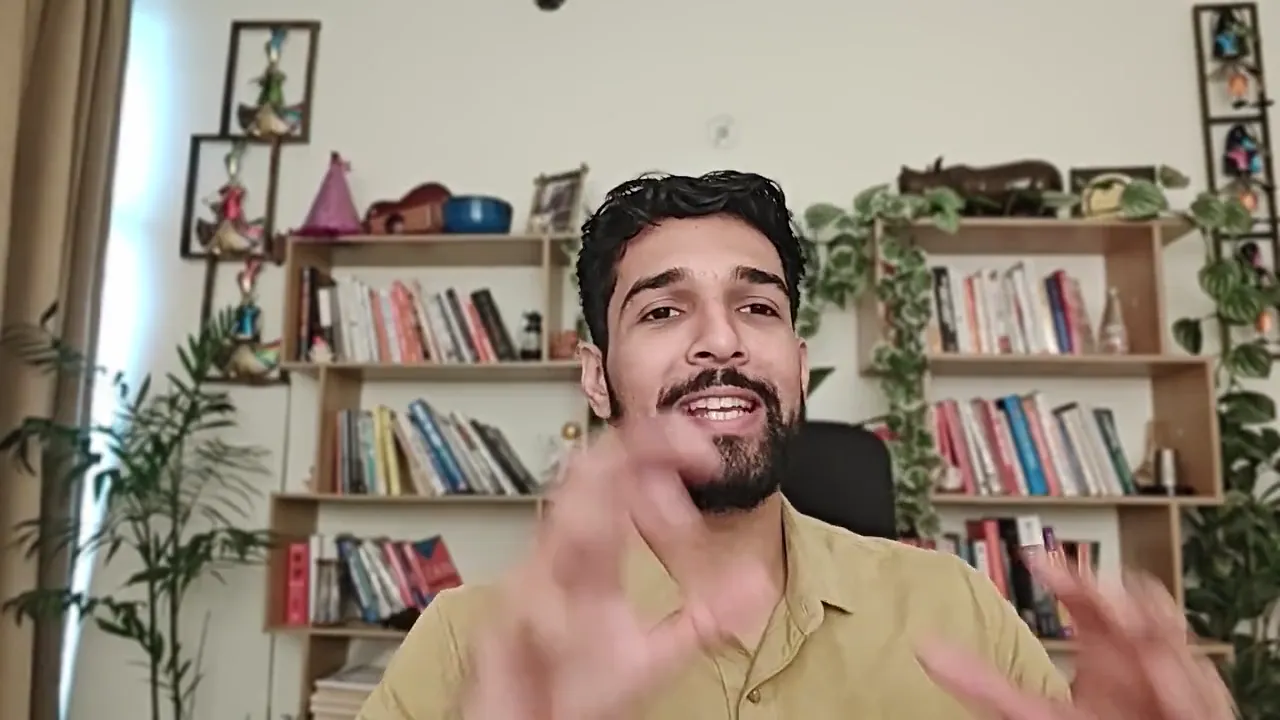
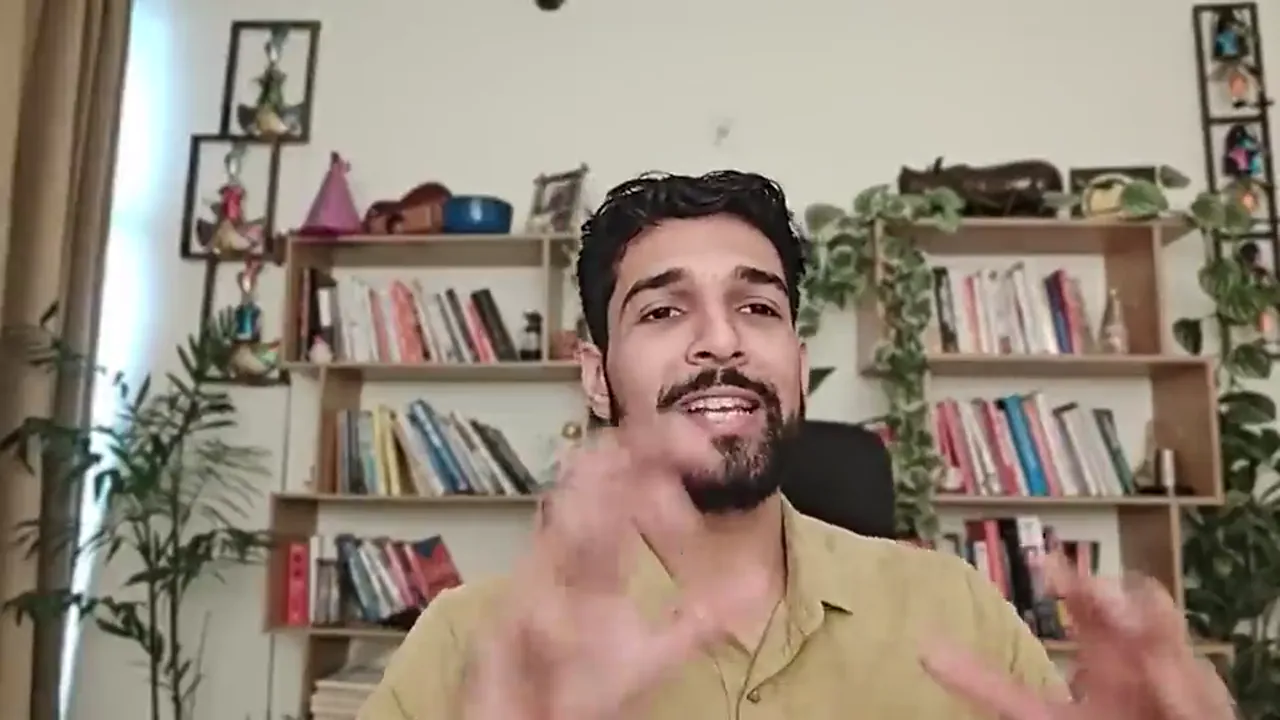
perf: compress course intro to 6.9MB; point testimonial paths at before-after

diff --git a/components/affiliate-lp/social-trust.tsx b/components/affiliate-lp/social-trust.tsx
@@ -165,7 +165,7 @@ export function SocialTrust() {
                 type: "video",
                 name: "Ayushi",
                 result: "Transformation Journey",
-                src: "/testimonials/ayushi.mp4",
+                src: "/before-after/ayushi.mp4",
               },
               {
                 type: "image",
@@ -177,7 +177,7 @@ export function SocialTrust() {
                 type: "video",
                 name: "Manav",
                 result: "Transformation Journey",
-                src: "/testimonials/manav.mp4",
+                src: "/before-after/manav.mp4",
               },
               {
                 type: "image",
@@ -189,7 +189,7 @@ export function SocialTrust() {
                 type: "video",
                 name: "Uday",
                 result: "Transformation Journey",
-                src: "/testimonials/uday.mp4",
+                src: "/before-after/uday.mp4",
               },
               {
                 type: "image",
@@ -201,25 +201,25 @@ export function SocialTrust() {
                 type: "video",
                 name: "Ananya",
                 result: "Transformation Journey",
-                src: "/testimonials/ananya.mp4",
+                src: "/before-after/ananya.mp4",
               },
               {
                 type: "video",
                 name: "Aditya",
                 result: "Transformation Journey",
-                src: "/testimonials/aditya.mp4",
+                src: "/before-after/aditya.mp4",
               },
               {
                 type: "video",
                 name: "Roshni",
                 result: "Transformation Journey",
-                src: "/testimonials/roshni.mp4",
+                src: "/before-after/roshni.mp4",
               },
               {
                 type: "video",
                 name: "Atreyee, 28",
                 result: "Transformation Journey",
-                src: "/testimonials/atreyee.mp4",
+                src: "/before-after/atreyee.mp4",
               },
             ].map((story, i) => (
               <div key={i} className={`break-inside-avoid rounded-2xl overflow-hidden relative shadow-lg group cursor-default bg-black mb-6 w-full ${story.type === 'video' ? 'aspect-[9/16]' : 'aspect-square'}`}>

diff --git a/content/campaign.ts b/content/campaign.ts
@@ -163,15 +163,15 @@ export const steps = [
 
 export const stories = [
   { type: "photo" as const, src: "/testimonials/pratima.webp", name: "Pratima, 37", result: "Transformation journey" },
-  { type: "video" as const, src: "/testimonials/ayushi.mp4", name: "Ayushi", result: "Transformation journey" },
+  { type: "video" as const, src: "/before-after/ayushi.mp4", name: "Ayushi", result: "Transformation journey" },
   { type: "photo" as const, src: "/testimonials/kanti.webp", name: "Kanti, 44", result: "Transformation journey" },
-  { type: "video" as const, src: "/testimonials/manav.mp4", name: "Manav", result: "Transformation journey" },
+  { type: "video" as const, src: "/before-after/manav.mp4", name: "Manav", result: "Transformation journey" },
   { type: "photo" as const, src: "/testimonials/rohit.webp", name: "Rohit, 39", result: "Transformation journey" },
-  { type: "video" as const, src: "/testimonials/uday.mp4", name: "Uday", result: "Transformation journey" },
-  { type: "video" as const, src: "/testimonials/ananya.mp4", name: "Ananya", result: "Transformation journey" },
-  { type: "video" as const, src: "/testimonials/aditya.mp4", name: "Aditya", result: "Transformation journey" },
-  { type: "video" as const, src: "/testimonials/roshni.mp4", name: "Roshni", result: "Transformation journey" },
-  { type: "video" as const, src: "/testimonials/atreyee.mp4", name: "Atreyee, 28", result: "Lost 6 Kgs*" },
+  { type: "video" as const, src: "/before-after/uday.mp4", name: "Uday", result: "Transformation journey" },
+  { type: "video" as const, src: "/before-after/ananya.mp4", name: "Ananya", result: "Transformation journey" },
+  { type: "video" as const, src: "/before-after/aditya.mp4", name: "Aditya", result: "Transformation journey" },
+  { type: "video" as const, src: "/before-after/roshni.mp4", name: "Roshni", result: "Transformation journey" },
+  { type: "video" as const, src: "/before-after/atreyee.mp4", name: "Atreyee, 28", result: "Lost 6 Kgs*" },
 ];
 
 export const experts = [
